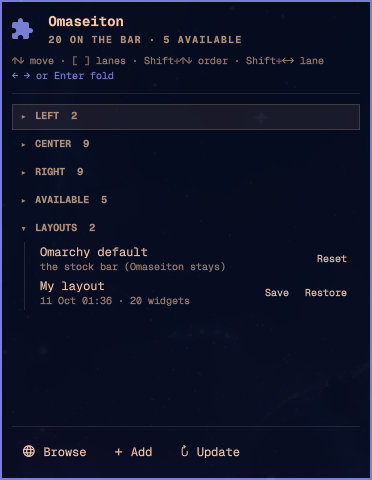
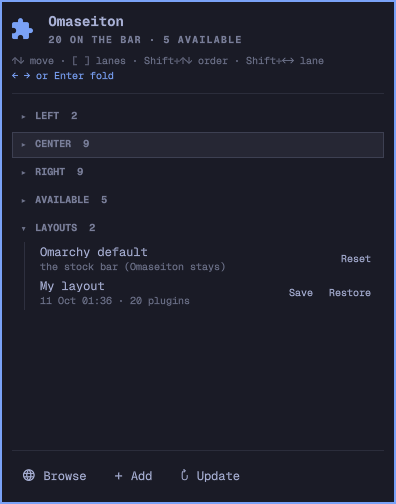
docs: complete screenshot gallery and refresh native panel previews

diff --git a/Deck.qml b/Deck.qml
@@ -806,7 +806,7 @@ Item {
                   trackHeight: Style.space(18)
                   checked: !delegateRoot.isAvailable
                   busy: root.working
-                  interactive: delegateRoot.isAvailable || delegateRoot.modelData.canDisable
+                  interactive: delegateRoot.isAvailable || !!delegateRoot.modelData.canDisable
                   opacity: delegateRoot.isAvailable || delegateRoot.modelData.canDisable ? 1 : 0.35
                   foreground: root.fg
                   onToggled: root.toggleRow(delegateRoot.modelData)

diff --git a/docs/SCREENSHOTS.md b/docs/SCREENSHOTS.md
@@ -1,13 +1,13 @@
 # Screenshots
 
-The README includes the panel and layouts renders below. They were rendered in a test window at the real popup size. Live desktop and additional theme screenshots remain optional follow-ups.
+The README includes the images below. The panel and layout images render the actual QML with the current live plugin list in an isolated window; the bar image is a cropped live desktop capture. Theme comparison renders use stock palettes without changing the desktop theme.
 
-| File                      | What to capture                                                                                                                                 |
-| ------------------------- | ----------------------------------------------------------------------------------------------------------------------------------------------- |
-| `docs/panel.png`          | **Done.** The dropdown content at the real popup's size (372 x 480), rendered in a test window                                                  |
-| `docs/layouts.png`        | **Done.** The Layouts node open. A second shot with one or two automatic snapshots would show the full list                                     |
-| `docs/bar.png`            | The bar with the Omaseiton icon highlighted                                                                                                     |
-| `docs/themes.png`         | The same dropdown under two or three different Omarchy themes, side by side                                                                     |
-| `preview.png` (repo root) | **Done.** Emblem, name and the dropdown, 1280 x 720. Built by `assets/src/build-preview.sh`. The marketplace picks this up as the listing image |
+| File               | What it shows                                                      |
+| ------------------ | ------------------------------------------------------------------ |
+| `docs/panel.png`   | Native dropdown with plugins grouped by lane and inline controls   |
+| `docs/layouts.png` | Layouts expanded, showing Omarchy default and the saved My layout  |
+| `docs/bar.png`     | Live Omarchy bar with Omaseiton's puzzle-piece icon                |
+| `docs/themes.png`  | The same dropdown in Tokyo Night and Catppuccin Latte              |
+| `preview.png`      | Marketplace preview built from the emblem and current panel render |
 
-Capture with `omarchy capture screenshot`, or `grim -g "<x>,<y> <w>x<h>" file.png`.
+No open application content is included in the live bar capture.

diff --git a/README.md b/README.md
@@ -30,7 +30,12 @@ Omaseiton is a bar plugin for the [Omarchy](https://omarchy.org) shell. Click it
 
 <p align="center"><sub>Left: lanes as a tree, with the buttons for the highlighted row. Right: saving and restoring whole layouts.</sub></p>
 
-More screenshots are tracked in [docs/SCREENSHOTS.md](docs/SCREENSHOTS.md).
+<p align="center">
+  <img src="docs/bar.png" alt="The live Omarchy bar with the Omaseiton puzzle-piece icon" width="100%">
+  <img src="docs/themes.png" alt="Omaseiton in Tokyo Night and Catppuccin Latte" width="792">
+</p>
+
+Screenshot details are in [docs/SCREENSHOTS.md](docs/SCREENSHOTS.md).
 
 |                      |                                                                                                                                                                                                                                                                                                                                     |
 | -------------------- | ----------------------------------------------------------------------------------------------------------------------------------------------------------------------------------------------------------------------------------------------------------------------------------------------------------------------------------- |
